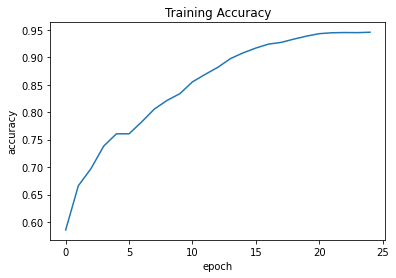
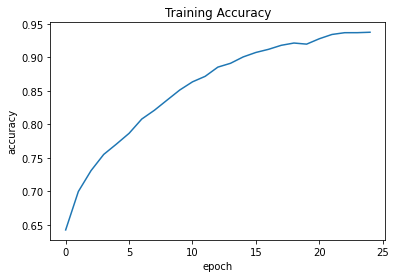
Updated generated files

diff --git a/examples/vision/md/deeplabv3_plus.md b/examples/vision/md/deeplabv3_plus.md
@@ -1,3 +1,4 @@
+
 # Multiclass semantic segmentation using DeepLabV3+
 
 **Author:** [Soumik Rakshit](http://github.com/soumik12345)<br>
@@ -56,8 +57,8 @@ from tensorflow.keras import layers
 ```
 Downloading...
 From: https://drive.google.com/uc?id=1B9A9UCJYMwTL4oBEo4RZfbMZMaZhKJaz
-To: /content/keras-io/scripts/tmp_3778414/instance-level-human-parsing.zip
-2.91GB [00:21, 137MB/s]
+To: /content/keras-io/scripts/tmp_4374681/instance-level-human-parsing.zip
+2.91GB [00:36, 79.6MB/s]
 
 ```
 </div>
@@ -73,10 +74,17 @@ IMAGE_SIZE = 512
 BATCH_SIZE = 4
 NUM_CLASSES = 20
 DATA_DIR = "./instance-level_human_parsing/instance-level_human_parsing/Training"
-MAX_IMAGES = 200
+NUM_TRAIN_IMAGES = 1000
+NUM_VAL_IMAGES = 50
 
-train_images = sorted(glob(os.path.join(DATA_DIR, "Images/*")))[:MAX_IMAGES]
-train_masks = sorted(glob(os.path.join(DATA_DIR, "Category_ids/*")))[:MAX_IMAGES]
+train_images = sorted(glob(os.path.join(DATA_DIR, "Images/*")))[:NUM_TRAIN_IMAGES]
+train_masks = sorted(glob(os.path.join(DATA_DIR, "Category_ids/*")))[:NUM_TRAIN_IMAGES]
+val_images = sorted(glob(os.path.join(DATA_DIR, "Images/*")))[
+    NUM_TRAIN_IMAGES : NUM_VAL_IMAGES + NUM_TRAIN_IMAGES
+]
+val_masks = sorted(glob(os.path.join(DATA_DIR, "Category_ids/*")))[
+    NUM_TRAIN_IMAGES : NUM_VAL_IMAGES + NUM_TRAIN_IMAGES
+]
 
 
 def read_image(image_path, mask=False):
@@ -106,16 +114,17 @@ def data_generator(image_list, mask_list):
     return dataset
 
 
-dataset = data_generator(train_images, train_masks)
-dataset
+train_dataset = data_generator(train_images, train_masks)
+val_dataset = data_generator(val_images, val_masks)
+
+print("Train Dataset:", train_dataset)
+print("Val Dataset:", val_dataset)
 ```
-
-
-
 
 <div class="k-default-codeblock">
 ```
-<BatchDataset shapes: ((4, 512, 512, 3), (4, 512, 512, 1)), types: (tf.float32, tf.float32)>
+Train Dataset: <BatchDataset shapes: ((4, 512, 512, 3), (4, 512, 512, 1)), types: (tf.float32, tf.float32)>
+Val Dataset: <BatchDataset shapes: ((4, 512, 512, 3), (4, 512, 512, 1)), types: (tf.float32, tf.float32)>
 
 ```
 </div>
@@ -221,8 +230,8 @@ model.summary()
 <div class="k-default-codeblock">
 ```
 Downloading data from https://storage.googleapis.com/tensorflow/keras-applications/resnet/resnet50_weights_tf_dim_ordering_tf_kernels_notop.h5
-94773248/94765736 [==============================] - 0s 0us/step
-94781440/94765736 [==============================] - 0s 0us/step
+94773248/94765736 [==============================] - 1s 0us/step
+94781440/94765736 [==============================] - 1s 0us/step
 Model: "model"
 __________________________________________________________________________________________________
 Layer (type)                    Output Shape         Param #     Connected to                     
@@ -611,7 +620,8 @@ model.compile(
     loss=loss,
     metrics=["accuracy"],
 )
-history = model.fit(dataset, epochs=25)
+
+history = model.fit(train_dataset, validation_data=val_dataset, epochs=25)
 
 plt.plot(history.history["loss"])
 plt.title("Training Loss")
@@ -624,60 +634,72 @@ plt.title("Training Accuracy")
 plt.ylabel("accuracy")
 plt.xlabel("epoch")
 plt.show()
+
+plt.plot(history.history["val_loss"])
+plt.title("Validation Loss")
+plt.ylabel("val_loss")
+plt.xlabel("epoch")
+plt.show()
+
+plt.plot(history.history["val_accuracy"])
+plt.title("Validation Accuracy")
+plt.ylabel("val_accuracy")
+plt.xlabel("epoch")
+plt.show()
 ```
 
 <div class="k-default-codeblock">
 ```
 Epoch 1/25
-50/50 [==============================] - 44s 347ms/step - loss: 1.5536 - accuracy: 0.5857
+250/250 [==============================] - 115s 359ms/step - loss: 1.1765 - accuracy: 0.6424 - val_loss: 2.3559 - val_accuracy: 0.5960
 Epoch 2/25
-50/50 [==============================] - 18s 350ms/step - loss: 1.0815 - accuracy: 0.6661
+250/250 [==============================] - 92s 366ms/step - loss: 0.9413 - accuracy: 0.6998 - val_loss: 1.7349 - val_accuracy: 0.5593
 Epoch 3/25
-50/50 [==============================] - 18s 355ms/step - loss: 0.9506 - accuracy: 0.6974
+250/250 [==============================] - 93s 371ms/step - loss: 0.8415 - accuracy: 0.7310 - val_loss: 1.3097 - val_accuracy: 0.6281
 Epoch 4/25
-50/50 [==============================] - 18s 360ms/step - loss: 0.8234 - accuracy: 0.7383
+250/250 [==============================] - 93s 372ms/step - loss: 0.7640 - accuracy: 0.7552 - val_loss: 1.0175 - val_accuracy: 0.6885
 Epoch 5/25
-50/50 [==============================] - 18s 363ms/step - loss: 0.7513 - accuracy: 0.7606
+250/250 [==============================] - 93s 372ms/step - loss: 0.7139 - accuracy: 0.7706 - val_loss: 1.2226 - val_accuracy: 0.6107
 Epoch 6/25
-50/50 [==============================] - 18s 365ms/step - loss: 0.7500 - accuracy: 0.7607
+250/250 [==============================] - 93s 373ms/step - loss: 0.6647 - accuracy: 0.7867 - val_loss: 0.8583 - val_accuracy: 0.7178
 Epoch 7/25
-50/50 [==============================] - 18s 366ms/step - loss: 0.6802 - accuracy: 0.7825
+250/250 [==============================] - 94s 375ms/step - loss: 0.5986 - accuracy: 0.8080 - val_loss: 0.9724 - val_accuracy: 0.7135
 Epoch 8/25
-50/50 [==============================] - 18s 368ms/step - loss: 0.6063 - accuracy: 0.8058
+250/250 [==============================] - 93s 372ms/step - loss: 0.5599 - accuracy: 0.8212 - val_loss: 0.9722 - val_accuracy: 0.7064
 Epoch 9/25
-50/50 [==============================] - 19s 370ms/step - loss: 0.5549 - accuracy: 0.8215
+250/250 [==============================] - 93s 372ms/step - loss: 0.5161 - accuracy: 0.8364 - val_loss: 0.9023 - val_accuracy: 0.7471
 Epoch 10/25
-50/50 [==============================] - 19s 371ms/step - loss: 0.5235 - accuracy: 0.8336
+250/250 [==============================] - 93s 373ms/step - loss: 0.4719 - accuracy: 0.8515 - val_loss: 0.8803 - val_accuracy: 0.7540
 Epoch 11/25
-50/50 [==============================] - 19s 374ms/step - loss: 0.4600 - accuracy: 0.8553
+250/250 [==============================] - 93s 372ms/step - loss: 0.4337 - accuracy: 0.8636 - val_loss: 0.9682 - val_accuracy: 0.7377
 Epoch 12/25
-50/50 [==============================] - 19s 376ms/step - loss: 0.4227 - accuracy: 0.8688
+250/250 [==============================] - 93s 373ms/step - loss: 0.4079 - accuracy: 0.8718 - val_loss: 0.9586 - val_accuracy: 0.7551
 Epoch 13/25
-50/50 [==============================] - 19s 379ms/step - loss: 0.3839 - accuracy: 0.8817
+250/250 [==============================] - 93s 373ms/step - loss: 0.3694 - accuracy: 0.8856 - val_loss: 0.9676 - val_accuracy: 0.7606
 Epoch 14/25
-50/50 [==============================] - 19s 381ms/step - loss: 0.3354 - accuracy: 0.8977
+250/250 [==============================] - 93s 373ms/step - loss: 0.3493 - accuracy: 0.8913 - val_loss: 0.8375 - val_accuracy: 0.7706
 Epoch 15/25
-50/50 [==============================] - 19s 384ms/step - loss: 0.3029 - accuracy: 0.9080
+250/250 [==============================] - 93s 373ms/step - loss: 0.3217 - accuracy: 0.9008 - val_loss: 0.9956 - val_accuracy: 0.7469
 Epoch 16/25
-50/50 [==============================] - 19s 385ms/step - loss: 0.2782 - accuracy: 0.9168
+250/250 [==============================] - 93s 372ms/step - loss: 0.3018 - accuracy: 0.9075 - val_loss: 0.9614 - val_accuracy: 0.7474
 Epoch 17/25
-50/50 [==============================] - 19s 384ms/step - loss: 0.2542 - accuracy: 0.9239
+250/250 [==============================] - 93s 372ms/step - loss: 0.2870 - accuracy: 0.9122 - val_loss: 0.9652 - val_accuracy: 0.7626
 Epoch 18/25
-50/50 [==============================] - 19s 383ms/step - loss: 0.2436 - accuracy: 0.9271
+250/250 [==============================] - 93s 373ms/step - loss: 0.2685 - accuracy: 0.9182 - val_loss: 0.8913 - val_accuracy: 0.7824
 Epoch 19/25
-50/50 [==============================] - 19s 382ms/step - loss: 0.2279 - accuracy: 0.9331
+250/250 [==============================] - 93s 373ms/step - loss: 0.2574 - accuracy: 0.9216 - val_loss: 1.0205 - val_accuracy: 0.7417
 Epoch 20/25
-50/50 [==============================] - 19s 382ms/step - loss: 0.2088 - accuracy: 0.9385
+250/250 [==============================] - 93s 372ms/step - loss: 0.2619 - accuracy: 0.9199 - val_loss: 0.9237 - val_accuracy: 0.7788
 Epoch 21/25
-50/50 [==============================] - 19s 383ms/step - loss: 0.1938 - accuracy: 0.9430
+250/250 [==============================] - 93s 372ms/step - loss: 0.2372 - accuracy: 0.9280 - val_loss: 0.9076 - val_accuracy: 0.7796
 Epoch 22/25
-50/50 [==============================] - 19s 383ms/step - loss: 0.1875 - accuracy: 0.9446
+250/250 [==============================] - 93s 372ms/step - loss: 0.2175 - accuracy: 0.9344 - val_loss: 0.9797 - val_accuracy: 0.7742
 Epoch 23/25
-50/50 [==============================] - 19s 383ms/step - loss: 0.1854 - accuracy: 0.9450
+250/250 [==============================] - 93s 372ms/step - loss: 0.2084 - accuracy: 0.9370 - val_loss: 0.9981 - val_accuracy: 0.7870
 Epoch 24/25
-50/50 [==============================] - 19s 384ms/step - loss: 0.1845 - accuracy: 0.9448
+250/250 [==============================] - 93s 373ms/step - loss: 0.2077 - accuracy: 0.9370 - val_loss: 1.0494 - val_accuracy: 0.7767
 Epoch 25/25
-50/50 [==============================] - 19s 382ms/step - loss: 0.1823 - accuracy: 0.9455
+250/250 [==============================] - 93s 372ms/step - loss: 0.2059 - accuracy: 0.9377 - val_loss: 0.9640 - val_accuracy: 0.7651
 
 ```
 </div>
@@ -686,6 +708,14 @@ Epoch 25/25
 
 
 ![png](/img/examples/vision/deeplabv3_plus/deeplabv3_plus_12_2.png)
+
+
+
+![png](/img/examples/vision/deeplabv3_plus/deeplabv3_plus_12_3.png)
+
+
+
+![png](/img/examples/vision/deeplabv3_plus/deeplabv3_plus_12_4.png)
 
 
 ---
@@ -756,22 +786,50 @@ def plot_predictions(images_list, colormap, model):
             [image_tensor, overlay, prediction_colormap], figsize=(18, 14)
         )
 
+```
 
+### Inference on Train Images
+
+
+```python
 plot_predictions(train_images[:4], colormap, model=model)
 ```
 
 
-![png](/img/examples/vision/deeplabv3_plus/deeplabv3_plus_14_0.png)
+![png](/img/examples/vision/deeplabv3_plus/deeplabv3_plus_16_0.png)
 
 
 
-![png](/img/examples/vision/deeplabv3_plus/deeplabv3_plus_14_1.png)
+![png](/img/examples/vision/deeplabv3_plus/deeplabv3_plus_16_1.png)
 
 
 
-![png](/img/examples/vision/deeplabv3_plus/deeplabv3_plus_14_2.png)
+![png](/img/examples/vision/deeplabv3_plus/deeplabv3_plus_16_2.png)
 
 
 
-![png](/img/examples/vision/deeplabv3_plus/deeplabv3_plus_14_3.png)
+![png](/img/examples/vision/deeplabv3_plus/deeplabv3_plus_16_3.png)
+
+
+### Inference on Validation Images
+
+
+```python
+plot_predictions(val_images[:4], colormap, model=model)
+```
+
+
+![png](/img/examples/vision/deeplabv3_plus/deeplabv3_plus_18_0.png)
+
+
+
+![png](/img/examples/vision/deeplabv3_plus/deeplabv3_plus_18_1.png)
+
+
+
+![png](/img/examples/vision/deeplabv3_plus/deeplabv3_plus_18_2.png)
+
+
+
+![png](/img/examples/vision/deeplabv3_plus/deeplabv3_plus_18_3.png)
 
